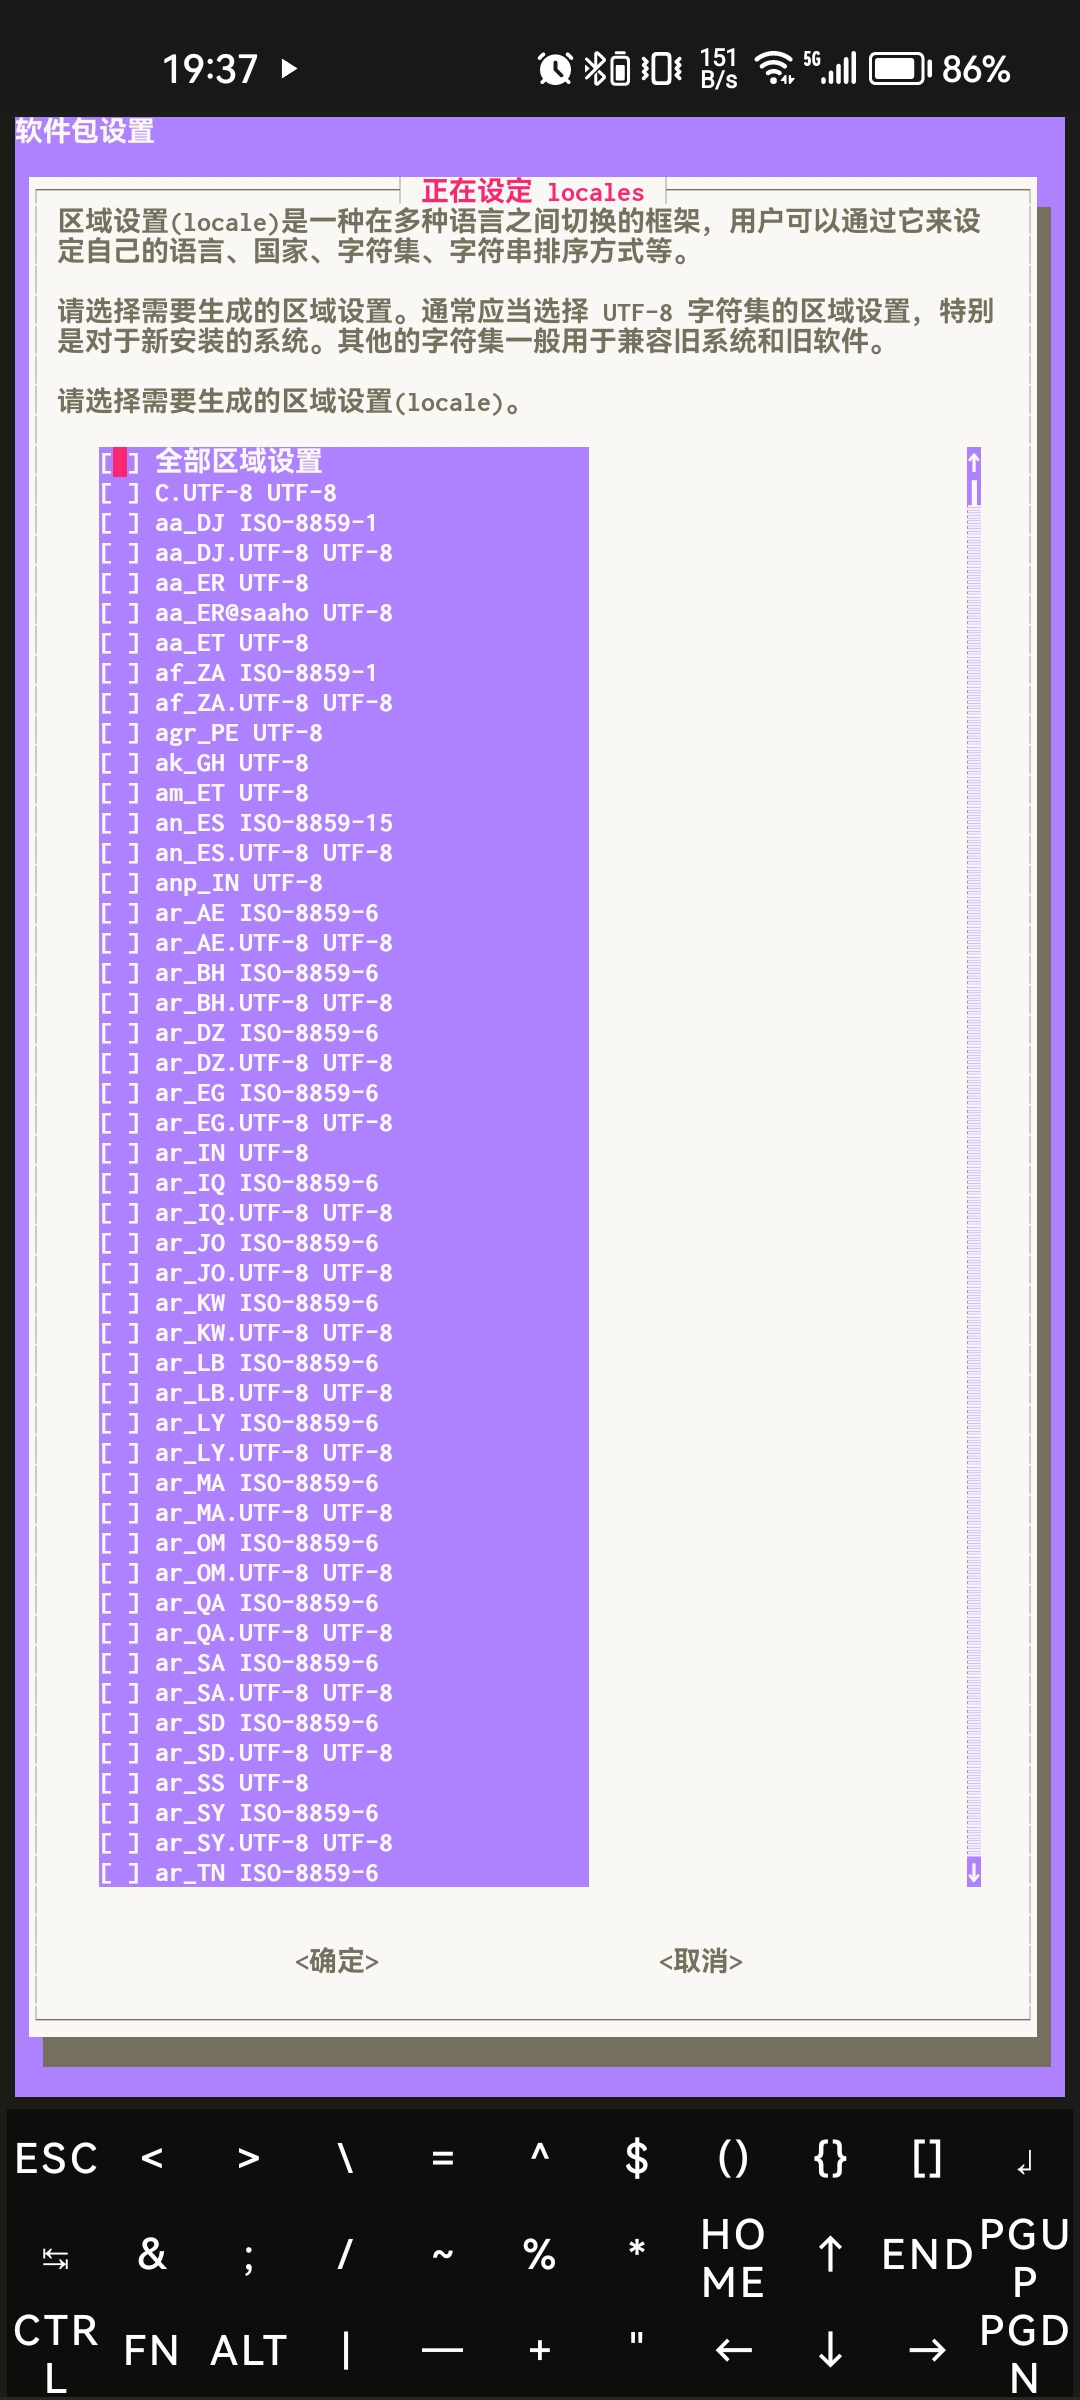
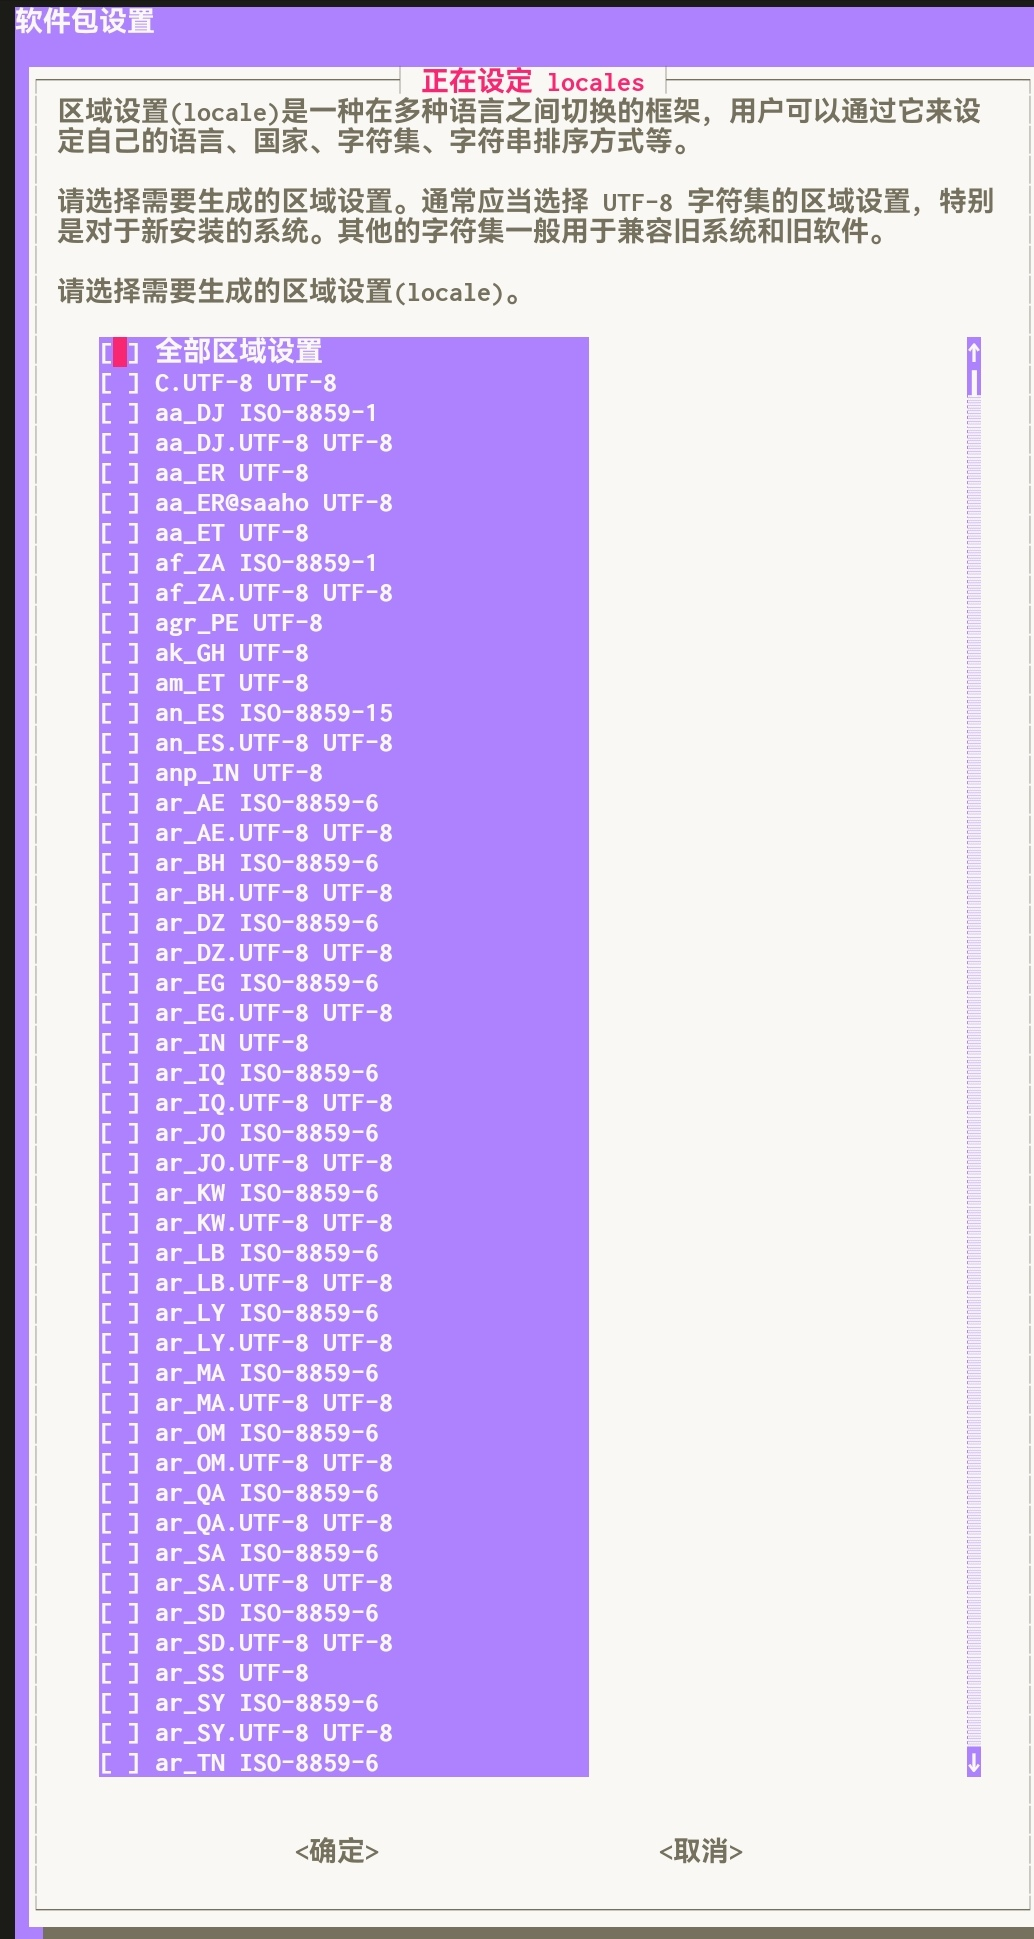
文档更新

diff --git a/Markdown/Tmoe.md b/Markdown/Tmoe.md
@@ -300,7 +300,7 @@ bash -c "$(curl -L gitee.com/mo2/linux/raw/2/2)"
 
 选择 `全部区域设置` 也就是第一个 即可以直接 `回车`
 
-![localse2.jpg](https://gitee.com/baihu433/Yunzai-Bot-Shell/raw/master/img/TOME/localse2.jpg)
+![localse2.jpg](https://gitee.com/baihu433/Yunzai-Bot-Shell/raw/master/img/TOME/localse2.png)
 
 选择 `zh_CN.UTF-8` 然后 `回车`
 
